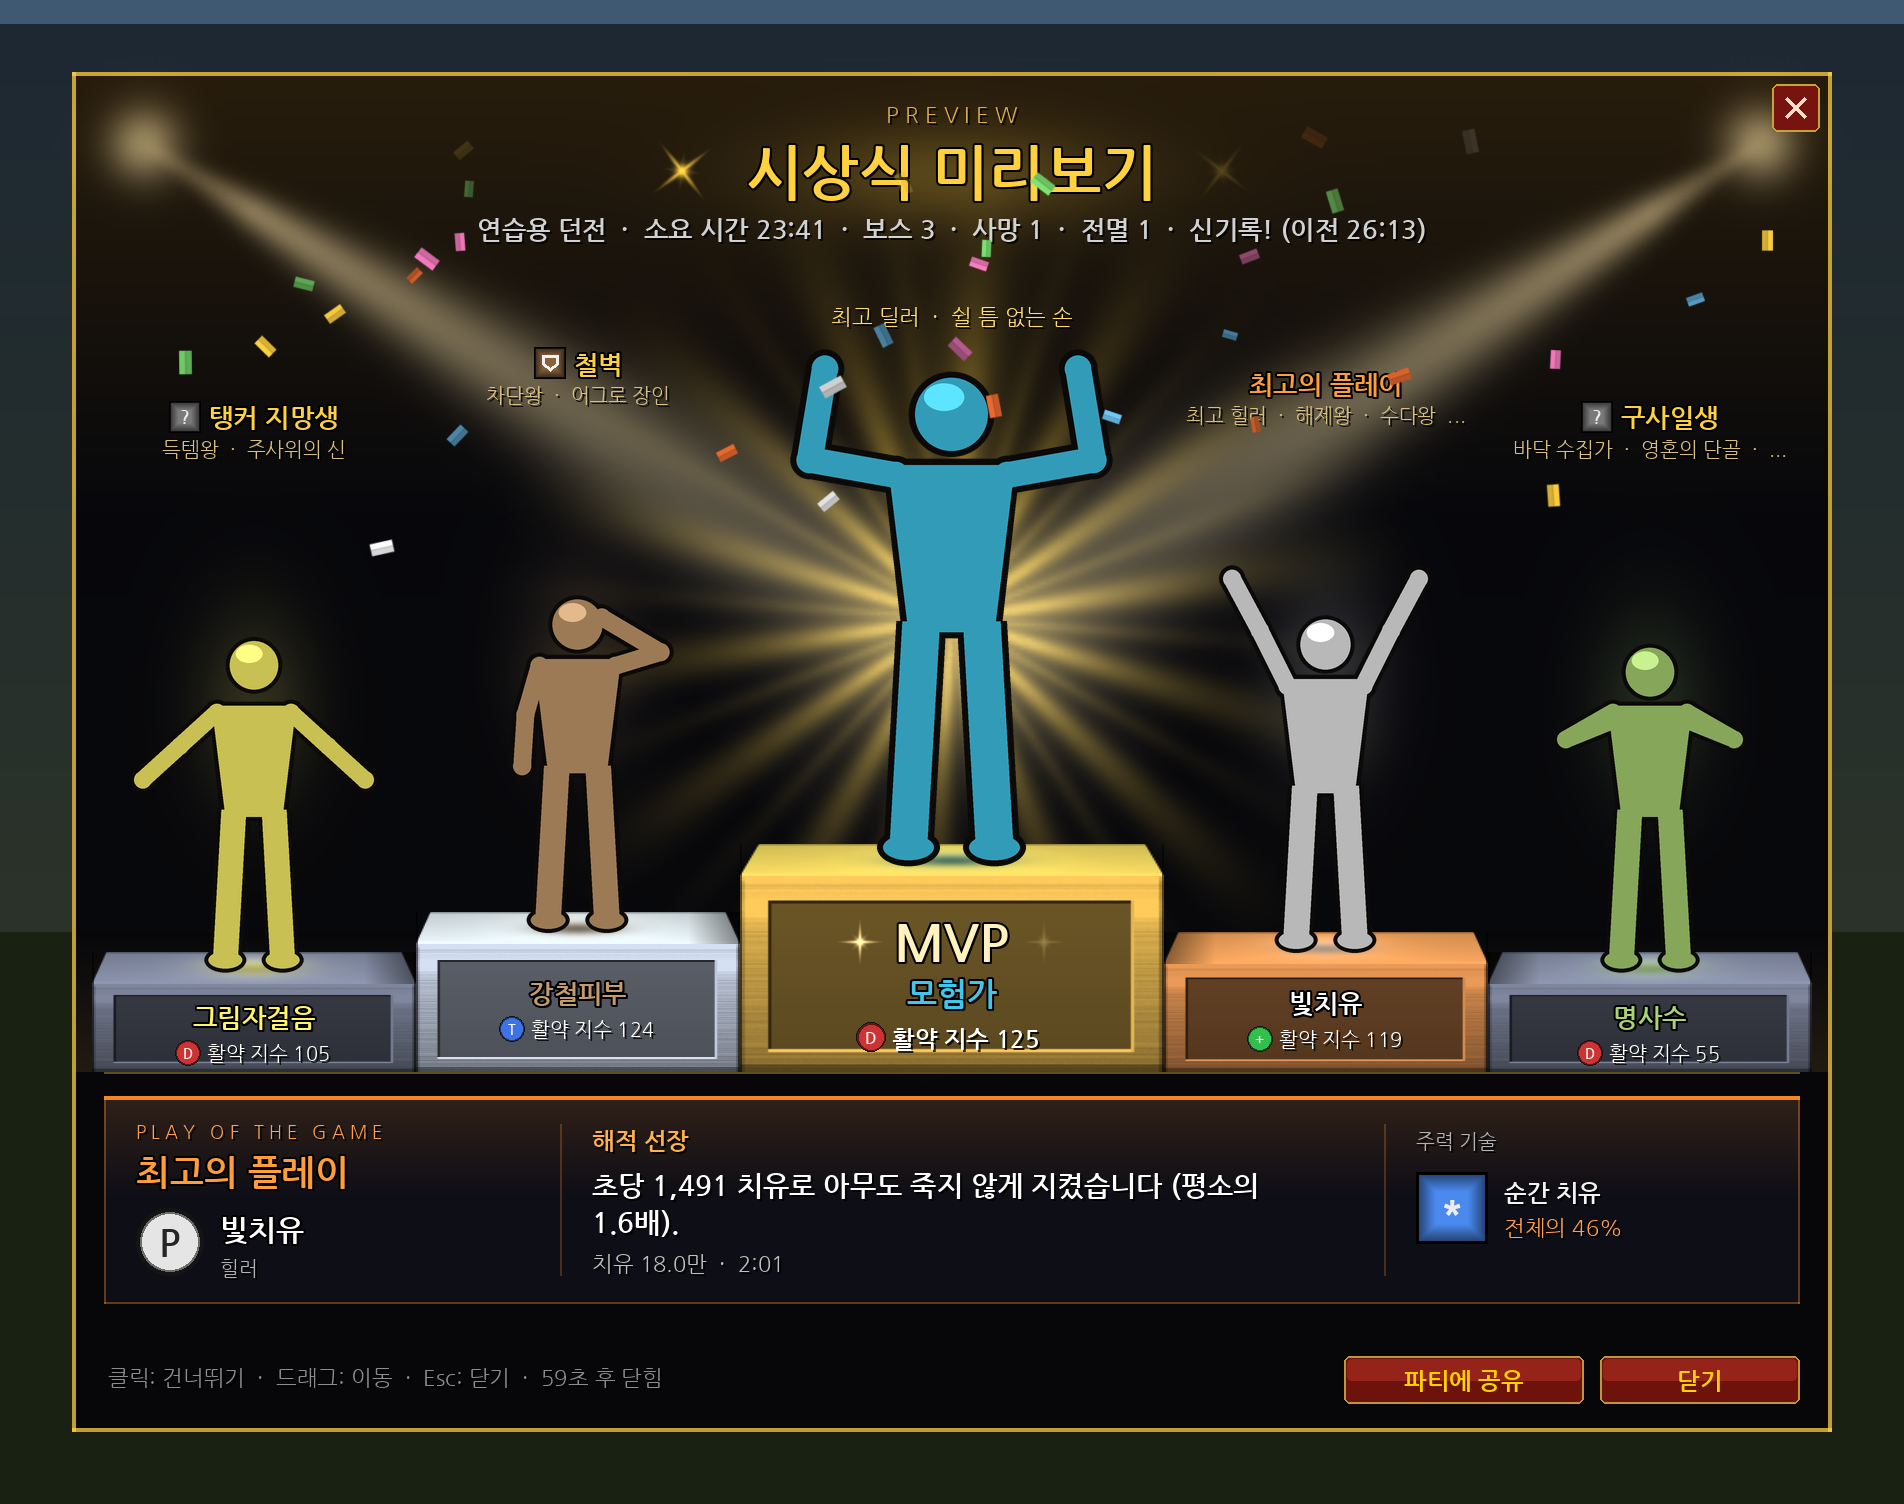
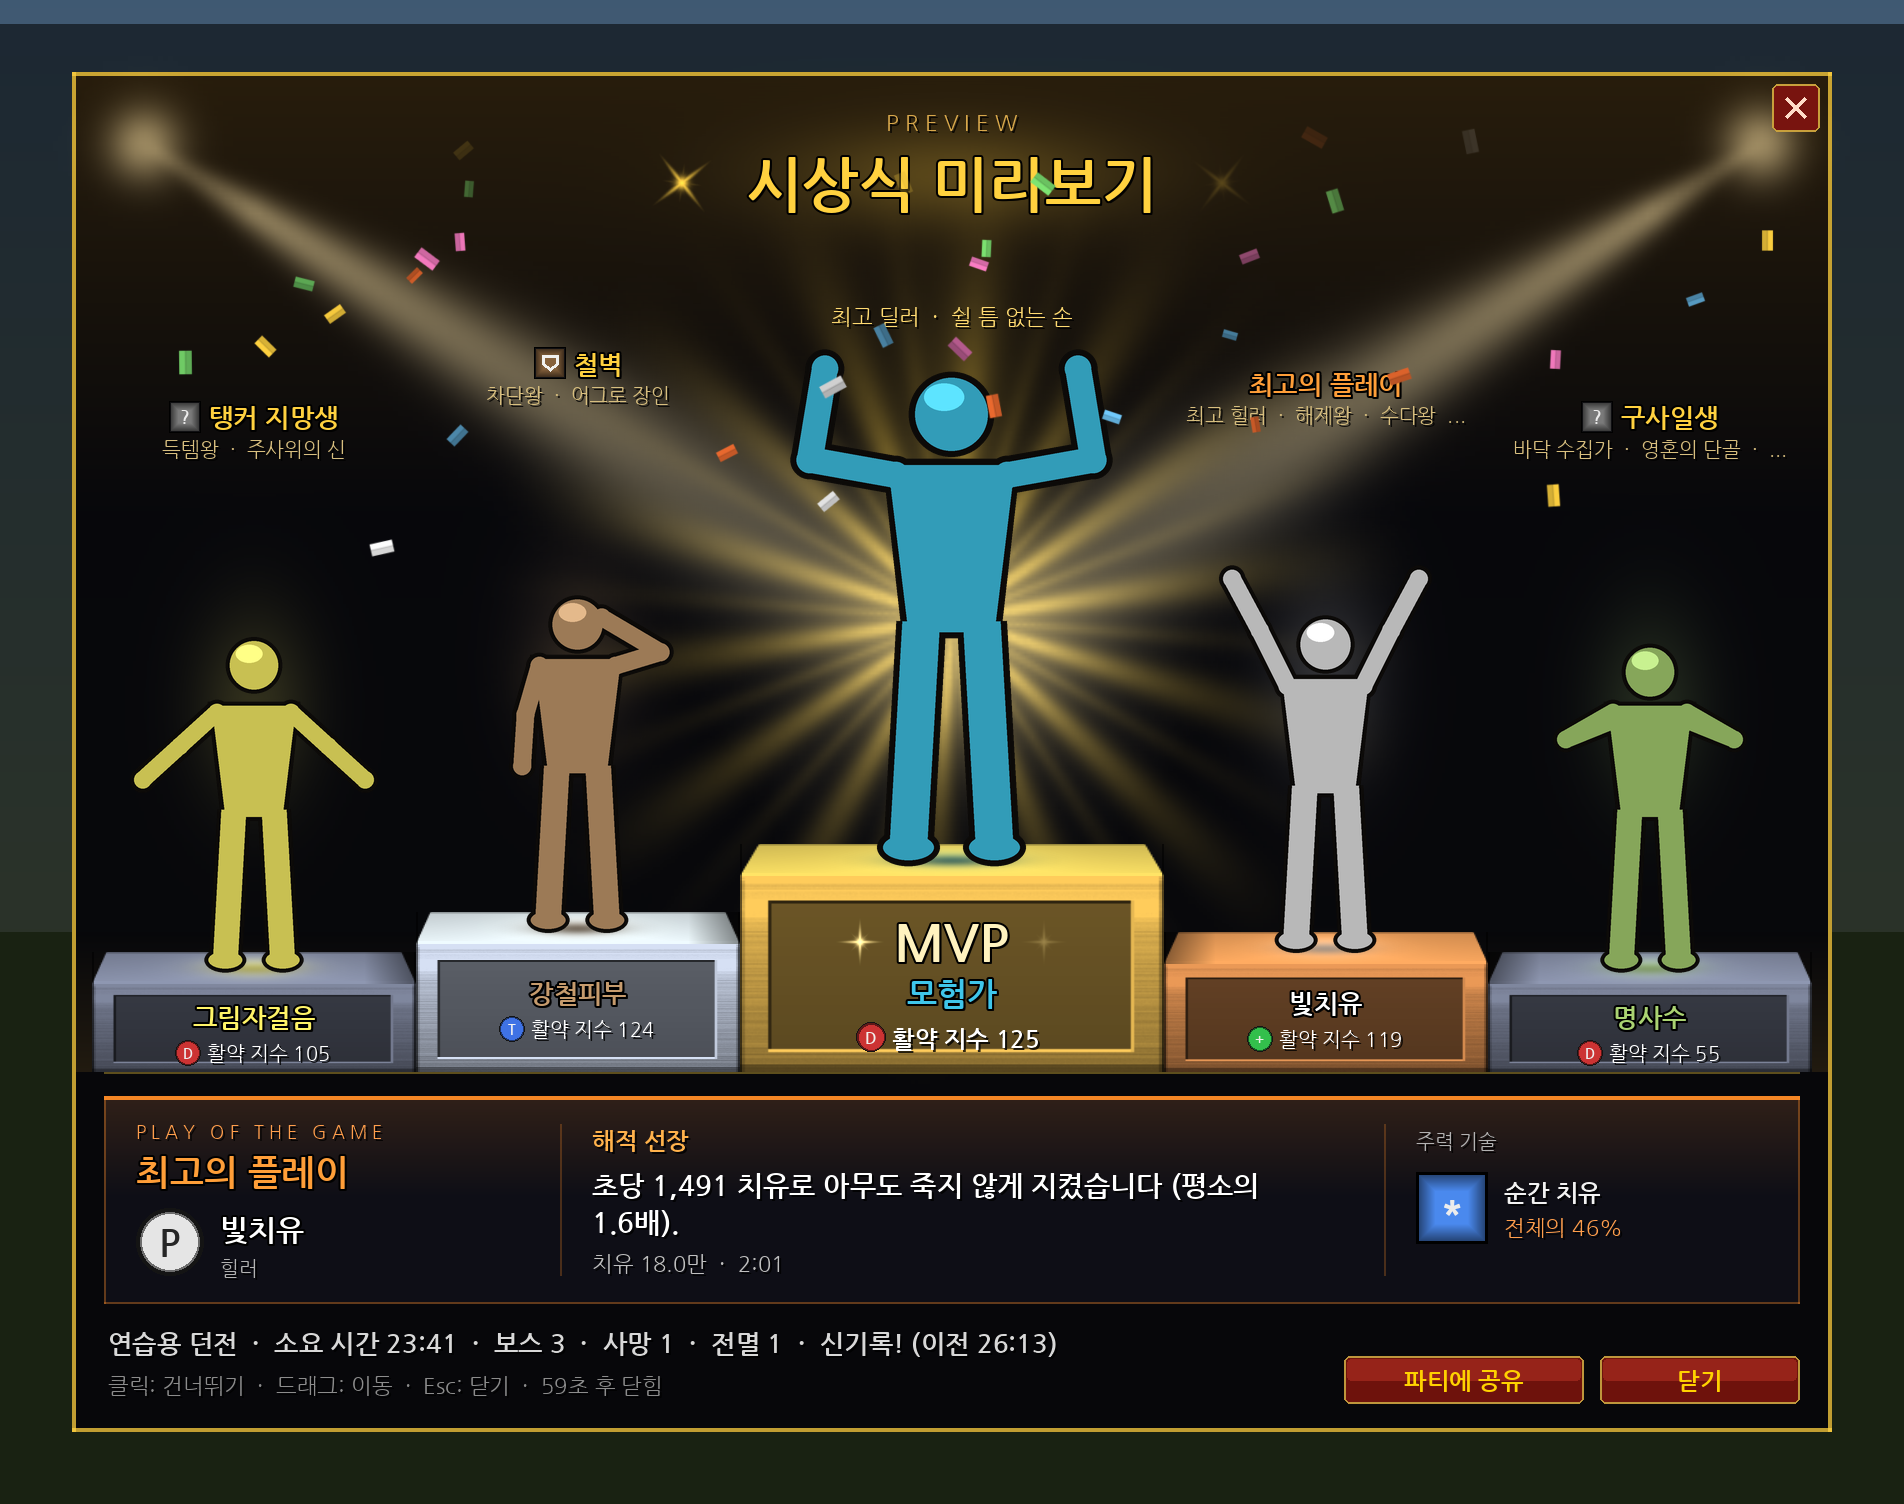
Rename Podium to Big Podium; dungeon info line at the bottom
- The addon is now Big Podium: folder BigPodium/, BigPodium.toc, title
  "Big Podium", saved variables BigPodiumDB, slash /mvp, /bigpodium,
  /시상식, and every global (compartment functions, ceremony frame,
  settings variables) renamed, so it doesn't clash with an old Podium
  folder left installed. Settings and history start fresh (the
  character height corrections are built into the defaults).
- The dungeon / time / bosses / deaths / wipes / record line no longer
  sits under the title, where it overlapped the title text in game; it
  is at the bottom of the window, left of the buttons, above the hint.
  The title moves down a little in the header.
- Test runner, tests, tools and README follow the rename.

Claude-Session: https://claude.ai/code/session_01JKP9zMQp4aPNnandWMvKrB

diff --git a/tools/render_podium_preview.py b/tools/render_podium_preview.py
@@ -1,5 +1,5 @@
 #!/usr/bin/env python3
-"""Render a picture of Podium's ceremony window from the addon's own code.
+"""Render a picture of Big Podium's ceremony window from the addon's own code.
 
 The addon is loaded into the mocked WoW API from tests/, the preview ceremony
 (/mvp test, with a made-up party) is opened and skipped to its end, and the
@@ -267,7 +267,7 @@ def solid(w, h, color, alpha):
 def load_media(path, cache={}):
     name = path.split("\\")[-1]
     if name not in cache:
-        file = os.path.join(ROOT, "Podium", "Media", name + ".tga")
+        file = os.path.join(ROOT, "BigPodium", "Media", name + ".tga")
         cache[name] = Image.open(file).convert("RGBA") if os.path.exists(file) else None
     return cache[name]
 
@@ -348,7 +348,7 @@ def draw_texture(canvas, item):
     vertex = item["vertex"]
     tint = np.array([vertex[1], vertex[2], vertex[3]]) if vertex is not None else np.ones(3)
     tex = item["texture"]
-    if isinstance(tex, str) and "AddOns\\Podium\\Media" in tex:
+    if isinstance(tex, str) and "AddOns\\BigPodium\\Media" in tex:
         img = load_media(tex)
         if img is None:
             return
@@ -555,7 +555,7 @@ def background(canvas):
 def main():
     locale = sys.argv[1] if len(sys.argv) > 1 else "koKR"
     out = sys.argv[2] if len(sys.argv) > 2 else os.path.join(ROOT, "docs", "podium_preview.png")
-    lua, run_chunk, mock = run_tests.load("Podium", locale)
+    lua, run_chunk, mock = run_tests.load("BigPodium", locale)
     name = "모험가" if locale == "koKR" else "Adventurer"
     lua.execute(f"""
         mock.units.player = {{ name = "{name}", guid = "Player-1-0001", class = "MAGE" }}
@@ -564,7 +564,7 @@ def main():
         for i, m in ipairs(party) do
             mock.units["party" .. i] = {{ name = m[1], class = m[2], role = m[3], guid = "Player-1-000" .. (i + 1) }}
         end
-        mock.fire("ADDON_LOADED", "Podium")
+        mock.fire("ADDON_LOADED", "BigPodium")
         mock.fire("PLAYER_LOGIN")
         ns:ShowDemo()
         ns.Ceremony:Skip()

diff --git a/tools/make_podium_media.py b/tools/make_podium_media.py
@@ -1,5 +1,5 @@
 #!/usr/bin/env python3
-"""Generate the textures used by Podium.
+"""Generate the textures used by Big Podium.
 
 Light textures (rays, glow, star, ring, beam) are white with a shaped alpha
 channel; the addon tints them gold with SetVertexColor() and draws them with
@@ -9,7 +9,7 @@ is a white flake tinted per piece. The icon is a colored podium. All are
 uncompressed 32-bit TGA.
 
 Usage:
-    python3 tools/make_podium_media.py      # writes Podium/Media/*.tga
+    python3 tools/make_podium_media.py      # writes BigPodium/Media/*.tga
 """
 
 import math
@@ -22,7 +22,7 @@ sys.path.insert(0, os.path.dirname(os.path.abspath(__file__)))
 from make_textures import glow, grid, ray, ring, star, write_tga  # noqa: E402
 
 ROOT = os.path.dirname(os.path.dirname(os.path.abspath(__file__)))
-MEDIA = os.path.join(ROOT, "Podium", "Media")
+MEDIA = os.path.join(ROOT, "BigPodium", "Media")
 
 
 def rays(size=256, count=14):
@@ -181,7 +181,7 @@ def main():
     os.makedirs(MEDIA, exist_ok=True)
     for name, fn in TEXTURES.items():
         write_tga(os.path.join(MEDIA, name), fn())
-        print("wrote", os.path.join("Podium", "Media", name))
+        print("wrote", os.path.join("BigPodium", "Media", name))
 
 
 if __name__ == "__main__":

diff --git a/tests/run_tests.py b/tests/run_tests.py
@@ -3,7 +3,7 @@
 
 Requires the `lupa` package (pip install lupa).
     python3 tests/run_tests.py            # every addon
-    python3 tests/run_tests.py Podium     # one addon
+    python3 tests/run_tests.py BigPodium  # one addon
 """
 
 import os
@@ -24,12 +24,12 @@ ADDONS = {
                  "Twinkle_OnAddonCompartmentLeave"],
         optional=["GetSpellInfo", "TwinkleDB", "GetMinimapShape"],
     ),
-    "Podium": dict(
+    "BigPodium": dict(
         test="test_podium.lua",
-        allowed=["PodiumDB", "SLASH_PODIUM1", "SLASH_PODIUM2", "SLASH_PODIUM3",
-                 "Podium_OnAddonCompartmentClick", "Podium_OnAddonCompartmentEnter",
-                 "Podium_OnAddonCompartmentLeave", "PodiumCeremonyFrame"],
-        optional=["GetSpellInfo", "PodiumDB", "C_ClassColor", "GetClassAtlas"],
+        allowed=["BigPodiumDB", "SLASH_BIGPODIUM1", "SLASH_BIGPODIUM2", "SLASH_BIGPODIUM3",
+                 "BigPodium_OnAddonCompartmentClick", "BigPodium_OnAddonCompartmentEnter",
+                 "BigPodium_OnAddonCompartmentLeave", "BigPodiumCeremonyFrame"],
+        optional=["GetSpellInfo", "BigPodiumDB", "C_ClassColor", "GetClassAtlas"],
     ),
 }
 

diff --git a/README.md b/README.md
@@ -2,14 +2,14 @@
 
 | 애드온 | 하는 일 |
 | --- | --- |
-| [Podium (시상식)](#podium-시상식) | 던전을 클리어하면 미터기 기록으로 **MVP · 최고의 플레이(POTG)** 시상식을 보여 줍니다. |
+| [Big Podium (시상식)](#big-podium-시상식) | 던전을 클리어하면 미터기 기록으로 **MVP · 최고의 플레이(POTG)** 시상식을 보여 줍니다. |
 | [Twinkle (반짝이)](#twinkle-반짝이) | 퀘스트 오브젝트, 약초, 광맥을 반짝이게 표시합니다. |
 
-설치는 둘 다 같습니다. 애드온 폴더(`Podium`, `Twinkle`)를 통째로 `World of Warcraft\_forever_\Interface\AddOns\` 안에 복사하고, 캐릭터 선택 화면의 **애드온** 목록에서 켜져 있는지 확인하세요. (`Podium.toc` 파일이 `AddOns\Podium\` 바로 안에 있어야 합니다.)
+설치는 둘 다 같습니다. 애드온 폴더(`BigPodium`, `Twinkle`)를 통째로 `World of Warcraft\_forever_\Interface\AddOns\` 안에 복사하고, 캐릭터 선택 화면의 **애드온** 목록에서 켜져 있는지 확인하세요. (`BigPodium.toc` 파일이 `AddOns\BigPodium\` 바로 안에 있어야 합니다.)
 
 ---
 
-# Podium (시상식)
+# Big Podium (시상식)
 
 AOS 게임이 끝나면 나오는 MVP / POTG 화면처럼, **던전을 클리어하면 시상식**이 열립니다. 데이터는 게임에 내장된 **미터기 기록**(`C_DamageMeter`)에서 가져옵니다. 포에버의 미터기 애드온 대부분도 이 기록을 보여 줍니다. 따로 미터기 애드온이 없어도 되고, 있어도 상관없습니다.
 
@@ -60,7 +60,7 @@ AOS 게임이 끝나면 나오는 MVP / POTG 화면처럼, **던전을 클리어
 
 ## 시상식 순서
 
-1. **던전 클리어!** – 던전 이름, 소요 시간, 잡은 보스 수, 사망 수
+1. **던전 클리어!** – 제목. 던전 이름, 소요 시간, 잡은 보스 수, 사망·전멸 수, 기록은 창 맨 아래 줄에 나옵니다.
 2. **최고의 플레이 (POTG)** – 아래쪽 카드. 한 전투에서 가장 돋보였던 순간 하나입니다. 보스 전투, 특히 마지막 보스일수록 점수가 큽니다.
    - 딜: 그 전투에서 파티 피해의 몇 %를 혼자 했는지 (역할 기대치 대비)
    - 힐: 평소보다 몇 배 빠르게 치유했는지, 그리고 아무도 죽지 않았는지
@@ -69,7 +69,7 @@ AOS 게임이 끝나면 나오는 MVP / POTG 화면처럼, **던전을 클리어
    - 그 사람의 주력 기술과 비중도 함께 보여 줍니다.
 3. **단상 입장** – 바깥쪽(5등)부터 한 명씩 등장해 감정표현
 4. **MVP** – 마지막으로 가운데 금색 단상에 **활약 지수**가 가장 높은 사람이 등장 (빛줄기 연출)
-5. **부문별 시상** – 각자 머리 위에: 최고 딜러, 최고 힐러, 철벽(탱커), 차단왕, 해제왕, 어그로 장인, 쉴 틈 없는 손, 구사일생, 레디 번개 + 재미 부문(바닥 수집가, 영혼의 단골, 탱커 지망생, 헛손질, 득템왕, 주사위의 신, 꽝손, 수다왕, 분위기 메이커, 랜선 여행자, 잠수부) / 무사고. 제목 줄에는 전멸 횟수와 이 던전의 **최고 기록**(신기록이면 NEW RECORD)도 나옵니다.
+5. **부문별 시상** – 각자 머리 위에: 최고 딜러, 최고 힐러, 철벽(탱커), 차단왕, 해제왕, 어그로 장인, 쉴 틈 없는 손, 구사일생, 레디 번개 + 재미 부문(바닥 수집가, 영혼의 단골, 탱커 지망생, 헛손질, 득템왕, 주사위의 신, 꽝손, 수다왕, 분위기 메이커, 랜선 여행자, 잠수부) / 무사고. 창 맨 아래 줄에는 전멸 횟수와 이 던전의 **최고 기록**도 나오고, 신기록이면 제목 위에 NEW RECORD가 뜹니다.
 
 클릭하면 연출을 건너뛰고, 드래그로 옮길 수 있고, Esc로 닫힙니다. **파티에 공유** 버튼은 결과 요약을 파티(또는 인스턴스/공격대) 대화로 보냅니다.
 
@@ -103,7 +103,7 @@ AOS 게임이 끝나면 나오는 MVP / POTG 화면처럼, **던전을 클리어
 | 전리품 · 주사위 | 획득 메시지(고급 이상)와 입찰·차비 주사위 결과 | 재미 **득템왕**, **주사위의 신**(90 이상), **꽝손**(10 이하) |
 | 채팅 · 감정표현 | 파티(공격대·인스턴스) 대화 수, 감정표현 수 (내용은 저장하지 않음) | 재미 **수다왕**, **분위기 메이커** |
 | 접속 끊김 · 자리 비움 | 파티원의 접속 상태, 자리 비움 표시 | 재미 **랜선 여행자**, **잠수부** |
-| 전멸 · 기록 | 보스 전투 실패 횟수, 이 던전(난이도별)에서 가장 빠른 클리어 시간 | 제목 줄 |
+| 전멸 · 기록 | 보스 전투 실패 횟수, 이 던전(난이도별)에서 가장 빠른 클리어 시간 | 창 맨 아래 줄 |
 
 - 게임이 숫자를 '비밀 값'으로 숨기는 경우(예: 전투 중 체력이나 위협 수준을 숨기는 상황)에는 그 항목을 건너뜁니다. 그래서 그 상은 나오지 않을 수 있습니다.
 - 분당 시전은 전투 시간이 1분 이상, 어그로 유지는 20초 이상 확인된 사람만 셉니다.
@@ -131,11 +131,11 @@ AOS 게임이 끝나면 나오는 MVP / POTG 화면처럼, **던전을 클리어
 
 | 명령 | 설명 |
 | --- | --- |
-| `/mvp` (또는 `/시상식`, `/podium`) | 지난 시상식 보기 (던전 진행 중이면 지금까지의 기록) |
+| `/mvp` (또는 `/시상식`, `/bigpodium`) | 지난 시상식 보기 (던전 진행 중이면 지금까지의 기록) |
 | `/mvp test` | 가짜 기록으로 미리보기 (혼자면 내 캐릭터 5명, 파티 중이면 파티원 캐릭터 + 빈 자리는 내 캐릭터) |
 | `/mvp history`, `/mvp history 2` | 최근 기록 목록 / 2번째 기록 다시 보기 |
 | `/mvp share` | 지난 결과를 파티 대화로 공유 |
-| `/mvp options` | 설정 창 (`ESC > 설정 > 애드온 > Podium (시상식)`) |
+| `/mvp options` | 설정 창 (`ESC > 설정 > 애드온 > Big Podium`) |
 | `/mvp on`, `/mvp off` | 시상식 켜기 / 끄기 (꺼도 기록은 계속 남깁니다) |
 | `/mvp debug` | 미터기·던전 기록 상태 출력 |
 
@@ -238,8 +238,8 @@ WoW Forever(와우 포에버)용 애드온입니다. **퀘스트 오브젝트**,
 # 개발
 
 ```
-Podium/             시상식 애드온 (이 폴더만 배포)
-  Podium.toc
+BigPodium/          시상식 애드온 (이 폴더만 배포)
+  BigPodium.toc
   Locale.lua        한국어 / 영어 문자열, 숫자 표기 (만/억)
   Meter.lua         내장 미터기(C_DamageMeter) 읽기
   Awards.lua        활약 지수, 최고의 플레이, 부문별 시상, 미리보기 데이터
@@ -273,7 +273,7 @@ pip install lupa
 python3 tests/run_tests.py
 ```
 
-애드온 하나만: `python3 tests/run_tests.py Podium`
+애드온 하나만: `python3 tests/run_tests.py BigPodium`
 
 텍스처 다시 만들기:
 
